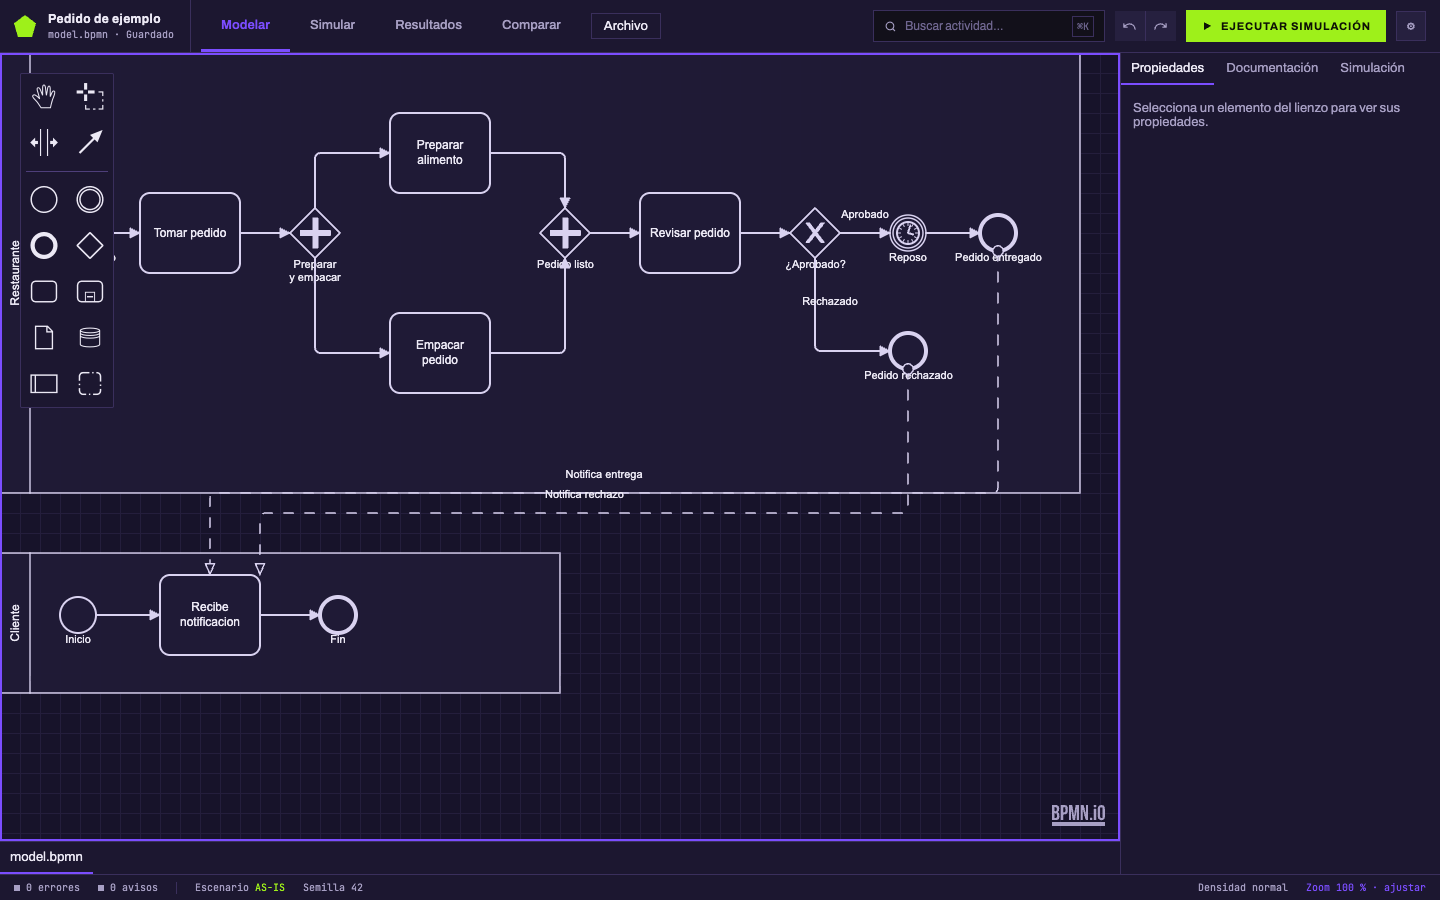
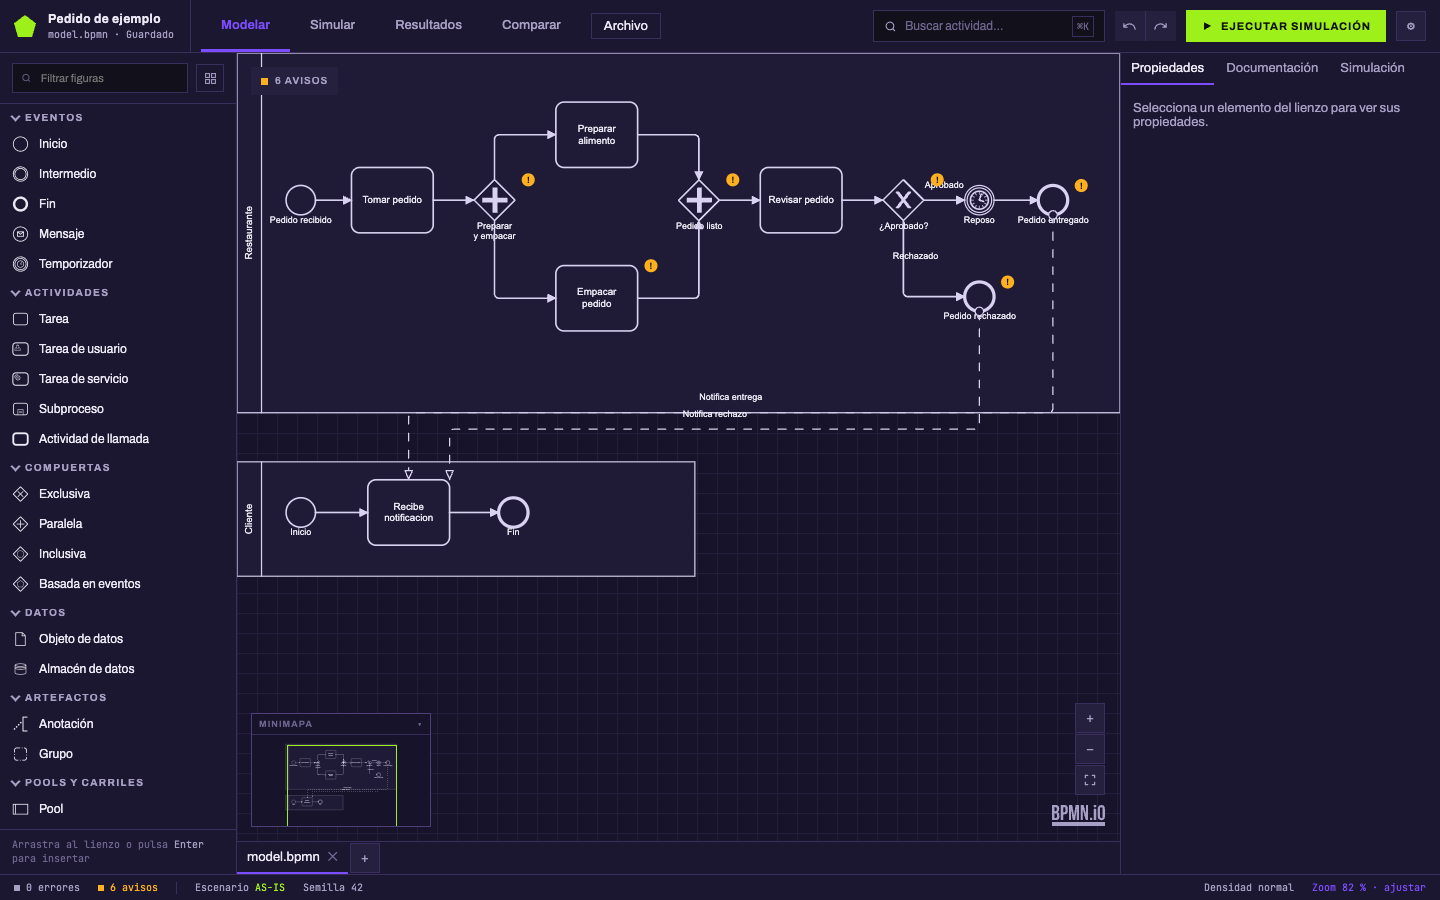
docs(ui): cierre de la sesión 8 — #237–#241 integrados, capturas Eva-01/Papel y fuentes fuera del CSP
Informe en estado/equipo-claude.md, comparación y README al día, capturas de la app integrada
al lado de los artboards 01 y 10. `build.assetsInlineLimit: 0` en Vite: los subconjuntos
pequeños de JetBrains Mono iban como `data:` y el CSP de Electron (`font-src 'self'`) los
bloqueaba; el smoke pasa de `ok:false` a `ok:true` sin tocar la CSP.

diff --git a/apps/web/vite.config.ts b/apps/web/vite.config.ts
@@ -10,6 +10,11 @@ import { defineConfig } from 'vite';
 export default defineConfig({
   plugins: [react()],
   publicDir: 'src/theme/themes',
+  // Ningún asset incrustado como `data:`: Vite inlinea por defecto lo que pesa menos de 4 KB y
+  // los subconjuntos griego/cirílico de JetBrains Mono (#238) caen ahí, y el CSP de Electron
+  // (`font-src 'self'`, `apps/desktop/src/main.ts`) los bloquea. Con archivos sueltos la CSP
+  // se queda como está; el smoke (`LILA_SMOKE=1`) es quien lo vigila.
+  build: { assetsInlineLimit: 0 },
   // Ni `results.html` (demo de LILA-062) ni `compare.html` (demo de LILA-063) se declaran como
   // entrada de `build`: en dev Vite sirve cualquier `.html` de la raíz del proyecto, así que
   // `npm run dev` las abre igual, y así el bundle de producción —el que publica LILA-067 en

diff --git a/docs/plan-operativo-2026-09-06/estado/equipo-claude.md b/docs/plan-operativo-2026-09-06/estado/equipo-claude.md
@@ -57,3 +57,17 @@ Origen: Brito probó el DMG y no encontró configuración (`⌘,` no hacía nada
 - Ajustes → Apariencia en `App.tsx` (`<dialog>` nativo, botón ⚙ y «Tema:» de la barra de estado): tema Eva-01/Papel en caliente (remonta el lienzo con el XML actual) y densidad; persistido en localStorage (`lila.tema`, `lila.densidad`). Atajos web `⌘S/⇧⌘S/⌘O` (Chrome se queda `⌘N` y `⌘,`; en Electron van por el menú). Es la versión mínima de #143; el editor de tokens sigue en #144.
 - Fuente Archivo cargada por `@fontsource/archivo` (decisión de Brito; el fallback `system-ui` era buena parte de la distancia con el diseño).
 Verificado: typecheck web+desktop, `npm test` 1273/1 omitido, build + smoke `{ok:true}`, demo web en navegador (cambio a Papel repinta lienzo y persiste tras recargar). No verificado: pulsación real de `⌘,` en la app empaquetada (computer-use denegado; el menú se construye en el smoke sin error y el despacho está cubierto por `menu.test.ts` y `App.test.tsx`).
+
+## Sesión 8 (2026-09-07 tarde, rama `codex/ui-artefacto` sobre `codex/op-g-ajustes` 9297975)
+Objetivo: acercar la app a los artboards de Claude Design cerrando #237–#241 (LILA-205…209). Orquestador Fable; trabajadores y QA adversarial Opus, uno por PR y nunca el autor; un worktree por ticket; squash a `codex/ui-artefacto` con CI verde y `QA: OK`. Nada tocó `main`.
+- #242 → #238 Modernist (6c09af0): radio 0 en todo lo nuestro (incluida la etiqueta del overlay de cuellos, hallazgo del QA), `@fontsource/jetbrains-mono` 400/500/700, cifras de Resultados/Comparar en mono a la derecha, pie en mono, densidad como una sola escala `--espacio` (0,85 / 1 / 1,2) con `var(--espacio, 1)` para no declarar nada en `tokens.css` (`theme.test.ts` exige exactamente los tokens del brief).
+- #243 → #240 Minimapa (a66b30c): `diagram-js-minimap` vestido con tokens abajo a la izquierda, cabecera «MINIMAPA ▾» = toggle del plugin por CSS (rótulo traducido escuchando `minimap.toggle`, hallazgo del QA), botones + / − / ajustar sobre `Modelador.zoom()` acotado 20–400 % y con `bottom: 46px` para no tapar la marca bpmn.io (`app.css.test.ts` lo vigila), pestaña «model.bpmn ✕» y «+» por `projectAction('new')` con la guardia de cambios.
+- #244 → #241 Marcadores (a060c5b): `ValidationMarkers.ts` (pura + `overlays.add` tipo `lila-validacion`, disco de 16 px con `title`), chips «n errores · n avisos» en el lienzo, mismos conteos que la cabecera del panel de escenario (lint real: `W-ELEMENTO-SIN-PARAMETROS` marca compuertas y eventos, es el motor quien lo dice). El orquestador añadió el error de `extends` al conteo y desactivó el chip sin figura (hallazgos del QA).
+- #245 → #237 Barra y pie (fd80097): logo, proyecto + archivo en mono, modos 3 px, buscador inerte (⌘K es #66), deshacer/rehacer en iconos, EJECUTAR SIMULACIÓN único primario con «Replicación n de m · p %» + CANCELAR en su hueco, desplegable «Archivo» nativo solo en la web (Electron ya lo tiene en el menú), pie «n errores · n avisos · Escenario · Semilla · Densidad · Zoom» en mono con los totales de #241. El QA arregló la barra a 1024 px (buscador oculto por media query) y el Esc del desplegable.
+- #246 → #239 Paleta (4dda203): `Paleta.tsx` de 236 px con 19 figuras en seis grupos `<details>`, filtro sin acentos, compacto de 48 px persistido, arrastre por `create.start`, clic/Enter por `modeling.createShape` + `directEditing`. Hallazgo del autor: `createShape` no busca padre y con pools reventaba el `BpmnUpdater`; `sitio()` pregunta a `rules.allowed`. El QA lo dejó con test propio (`Paleta.test.ts`), `scrollToElement` cuando el pool está fuera de pantalla, nombre accesible limpio y filas escaladas por densidad.
+- `apps/desktop/src/menu.ts` no cambió: «Abrir/Exportar .bpmn» no existen en Electron (`bpmnFilesEnabled={!desktop}`, el puente solo maneja proyectos). Si se quieren en el menú nativo hace falta E/S de `.bpmn` en el puente (ticket aparte).
+Verificado en la rama integrada: `npm test` 97 archivos / 1303 verdes / 1 omitido; `npm run typecheck` (raíz, web y desktop) limpio; capturas `docs/design/app-01-modelar-1440.png` y `app-10-modelar-papel.png` a 1440×900 al lado de los artboards 01 y 10; build web + desktop, smoke y DMG: ver abajo.
+Fuera de alcance, con ticket o pendiente de él: tooltip propio de los marcadores (hoy es el `title` nativo), paleta de comandos (#66), varios diagramas por proyecto (✕ y + hacen lo mismo), carriles desde la paleta (siguen en el context pad), raíl redimensionable, banda «CORREGIR» del panel, «n elementos» ya no está en el pie (el artboard no lo tiene).
+Trampas de la sesión: los subagentes Opus se colgaban («no progress for 600s») al usar el Browser pane o al leer PNG grandes; los relevos y todos los QA verificaron con Chrome headless + CDP desde Bash y muestreo de píxeles, y eso funcionó. Cinco suites a la vez suben `vitest apps/web apps/desktop` de 5 s a 100 s. `gh pr merge --squash` deja las ramas apiladas en conflicto: `git rebase --onto codex/ui-artefacto <base-vieja>` las limpia sin tocar nada.
+Build: `npm run build -w @lila/web && npm run build -w @lila/desktop` ok; el primer smoke falló (`ok:false`, CSP `font-src 'self'` bloqueando los subconjuntos griego/cirílico de JetBrains Mono que Vite incrustaba como `data:` por pesar < 4 KB) y se arregló con `build.assetsInlineLimit: 0` en `apps/web/vite.config.ts` (la CSP no cambia); segundo smoke `{"lienzo":true,"tema":true,"fuente":true,"puente":true,"consoleErrors":[],"ok":true}`. DMG: `apps/desktop/release/Lila Modeler-0.0.1-mac-arm64.dmg` (≈129 MB, arm64, sin firmar) con `ORIGEN.txt` apuntando al commit de cierre de esta sección. No verificado a mano en el DMG: teclado real y arrastre de la paleta en Electron (todo lo demás está cubierto por CDP en la web y por el smoke).
+Decisión pendiente de Brito: si `codex/ui-artefacto` pasa a ser la base del DMG que se entrega, o si se integra antes en `codex/operativo-20260906`.

diff --git a/docs/design/COMPARACION-2026-09-07.md b/docs/design/COMPARACION-2026-09-07.md
@@ -1,9 +1,14 @@
 # Demo vs artboards de Claude Design — 2026-09-07
 
-Comparación de la app (rama `codex/op-g-ajustes`, captura `app-2026-09-07-modelar-eva01.png`)
-contra los diez artboards del artefacto (`Lila Modeler.dc.html`, capturas `01…10-*.png`). El
-artefacto se leyó completo por `DesignSync` tras `/design-login`; las capturas se renderizaron
-con Chrome headless a partir del HTML de cada artboard, sin retocar.
+Comparación de la app contra los diez artboards del artefacto (`Lila Modeler.dc.html`, capturas
+`01…10-*.png`). El artefacto se leyó completo por `DesignSync` tras `/design-login`; las capturas
+se renderizaron con Chrome headless a partir del HTML de cada artboard, sin retocar.
+
+**Actualizado en la sesión 8 (2026-09-07 tarde)** con #237–#241 mezclados en `codex/ui-artefacto`
+(4dda203): la app de esa rama está capturada en `app-01-modelar-1440.png` (Eva-01) y
+`app-10-modelar-papel.png` (Papel), al lado de los artboards 01 y 10. Las capturas `app-01b/c/d-*`
+y `app-05/12-*` son las de aceptación de cada ticket. La primera comparación (mañana, rama
+`codex/op-g-ajustes`) partía de `app-2026-09-07-modelar-eva01.png`.
 
 Leyenda: **✓** ya está · **≈** existe pero distinto · **✗** falta.
 
@@ -78,7 +83,7 @@ App (hoy): diálogo con tema y densidad. **≈**: es el hueco donde entra #144; 
 
 ### 10 · Modelar con Papel
 
-Artefacto: mismo layout, fondo `#F3F2F2`, superficie blanca, rojo `#EC3013` en primario/selección/pestaña activa, texto `#201E1D`. App: Papel ya se aplica en caliente y, con los tokens reconciliados, coincide en color. **✓** (colores) · las diferencias son las del artboard 01.
+Artefacto: mismo layout, fondo `#F3F2F2`, superficie blanca, rojo `#EC3013` en primario/selección/pestaña activa, texto `#201E1D`. App: Papel ya se aplica en caliente y, con los tokens reconciliados, coincide en color. **✓** (`app-10-modelar-papel.png`, sesión 8: misma barra, paleta, minimapa, marcadores y pie que el artboard 01 en Papel; el rojo `#EC3013` manda en primario, pestaña activa y viewport del minimapa).
 
 ## Inventario de componentes del artefacto (reconcilia el de `README.md`)
 
@@ -97,6 +102,8 @@ Artefacto: mismo layout, fondo `#F3F2F2`, superficie blanca, rojo `#EC3013` en p
 - «Deshacer/rehacer se extiende con comandos propios para los cambios de escenario» — no existe; hoy el panel de escenario no entra en la pila.
 
 ## Propuesta de orden (tickets)
+
+Los cinco primeros están **hechos** (sesión 8, PR #242–#246 en `codex/ui-artefacto`); quedan los del punto 6.
 
 1. **#237 LILA-205 · Barra superior y barra de estado como en el artefacto** (S): logo, proyecto+archivo, modos 3 px, acciones a iconos, «Ejecutar simulación» primario en la barra, tema por icono; estado con errores/avisos, escenario, semilla, densidad, zoom. Es lo que más acerca la sensación al diseño con poco código, y deja «Simular» donde el brief lo pide.
 2. **#238 LILA-206 · Radio 0, JetBrains Mono y escala de densidad** (S): `border-radius: 0` en tokens/CSS, `font.mono` en tablas, ids y barra de estado; cargar JetBrains Mono con `@fontsource/jetbrains-mono`.

diff --git a/docs/design/README.md b/docs/design/README.md
@@ -52,7 +52,8 @@ Chrome headless 1440×900 contra el dev server, tema Eva-01 y `examples/pedido` 
 | `app-01c-minimapa.png` | Modelar con el minimapa abierto abajo a la izquierda, zoom +/−/ajustar abajo a la derecha y pestaña con ✕ y «+» | #240 |
 | `app-01d-marcadores.png` | Modelar con el chip «6 avisos» y el disco de validación sobre cada figura sin parámetros en el escenario AS-IS | #241 |
 | `app-01b-paleta.png` | Modelar con la paleta propia a la izquierda: filtro «Filtrar figuras», botón de modo compacto, los seis grupos con nombre por figura y el pie «Arrastra al lienzo o pulsa Enter para insertar» | #239 |
-| `app-01-modelar-1440.png` | Modelar con la barra superior del artboard 01 (logo, proyecto + archivo en mono, modos, buscador, deshacer/rehacer, EJECUTAR SIMULACIÓN, ⚙) y el pie con errores/avisos, escenario, semilla, densidad y zoom | #237 |
+| `app-01-modelar-1440.png` | Modelar con los cinco tickets de la sesión 8 (#237–#241) en Eva-01: barra del artboard 01, paleta propia, chips y marcadores, minimapa y zoom, pestaña con ✕, pie en mono | sesión 8 |
+| `app-10-modelar-papel.png` | La misma pantalla con el tema Papel, al lado del artboard 10 | sesión 8 |
 
 ## Inventario de componentes React
 
